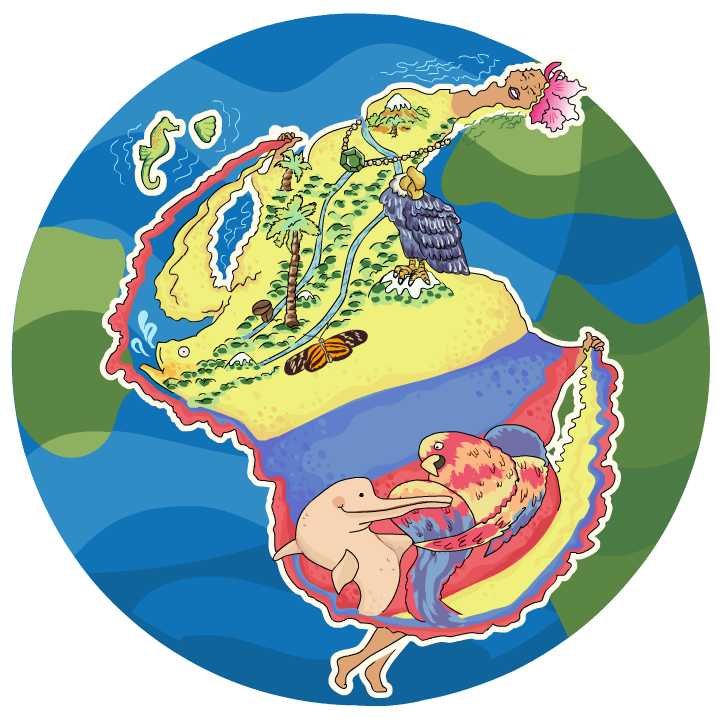
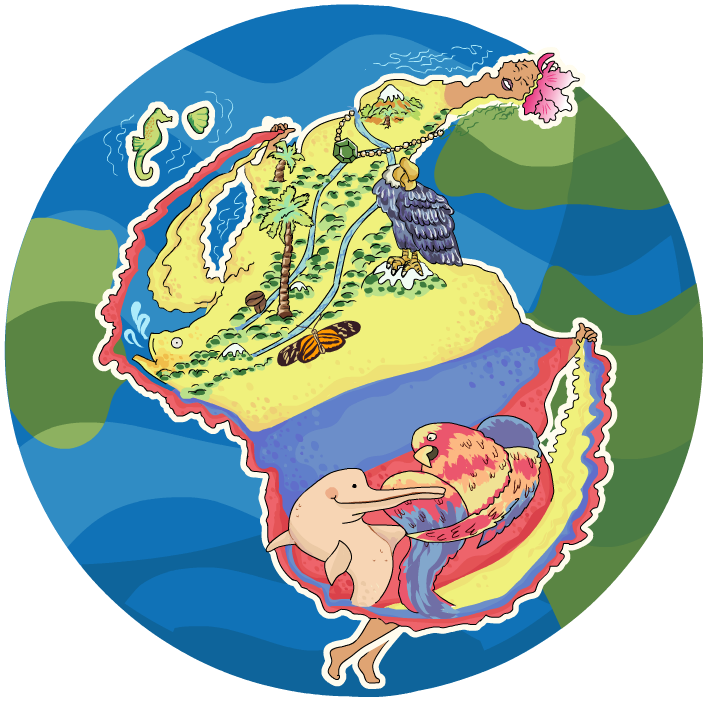
Aplicando grid a otras secciones

diff --git a/paginas/cuento.html b/paginas/cuento.html
@@ -52,40 +52,7 @@ function handleComplete(evt,comp) {
 </script>
 </head>
 <body onload="init();">
-    <!-- <header>
-        <div>
-           
-            <ul class="headerUl">
-              <div class='divflex'>
-                <a href="./index.html"><img class="barramenu" src="../imagenes/botonmenu.png" alt="INICIO"><li class='ulLi1 azul nose'>INICIO</li></a>
-                <a href="./juegos.html"><img class="barramenu" src="../imagenes/botonjuegos.png" alt="JUEGOS"><li class='ulLi1 azul nose'>JUEGOS</li></a>
-              </div>
-              <div class='divflex'>
-                <a href="./nosotros.html"><img class="barramenu" src="../imagenes/nosotros.png" alt="NOSOTROS"><li class="ulLi1 azul nose" > NOSOTROS</li></a>
-              </div> 
-            </ul>
-          
-        </div>
-    </header>
-
-    <div class="new">
-      <div class="card" data-tilt data-tilt-scale="0.95" data-tilt-startY="40">
-        <div class="year">
-          <img width="200px" height="200px"  src="../imagenes/titulo.png" alt="TITULO">
-        </div>  
-      </div>
-    </div> -->
-    <!--
-      <div id="animation_container" style="background-color:rgba(247, 225, 175, 1.00); height:500px">
-        <canvas id="canvas" height="500px" class="juego" style="background-color:rgba(247, 225, 175, 1.00);"></canvas>
-        <div id="dom_overlay_container" class="juego" style="pointer-events:none; overflow:hidden; width:960px; height:640px; left: 0px; top: 0px;">
-        </div>
-      </div>
-        <div id='_preload_div_' style='position:absolute; top:0; left:0; display: inline-block; height:640px; width: 960px; text-align: center;'>
-          <span style='display: inline-block; height: 100%; vertical-align: middle;'></span>
-          <img src=images/_preloader.gif style='vertical-align: middle; max-height: 100%'/>
-        </div> -->
-    <div class="grilla1">
+    <header class="grilla1">
       <div class="g1">
         <div class='divflex'>
           <a href="../index.html"><img class="barramenu" src="../imagenes/botonmenu.png" alt="INICIO"><li class='ulLi1 azul nose'>INICIO</li></a>
@@ -104,19 +71,16 @@ function handleComplete(evt,comp) {
           </div>  
         </div>
       </div>
-    </div>
+    </header>
     <div class="grilla2">
       <div class="g4">
-        CUENTO
+        <h1 class="cuento">CUENTO</h1>
       </div>
       <div class="g5">
-        FOOTER
+        <h1 class="footer">FOOTER</h1>
       </div>
     </div>
 
     <script src='https://cdnjs.cloudflare.com/ajax/libs/vanilla-tilt/1.7.0/vanilla-tilt.min.js'></script><script  src="./script.js"></script>
 </body>
 </html>
-
-<divl class="grilla1"></divl>
-<div class="grilla2"></div>

diff --git a/paginas/juegos.html b/paginas/juegos.html
@@ -9,7 +9,7 @@
     <script src='main.js'></script>
 </head>
 <body class="fondoJuegos">
-    <header>
+    <!-- <header>
           <div class="headerUl">
             
               <div class="acomodando">
@@ -23,12 +23,45 @@
             
           </div>
     </header>
-      <div class="cardJuegos top" data-tilt data-tilt-scale="0.95" data-tilt-startY="40">
+    <div class="cardJuegos top" data-tilt data-tilt-scale="0.95" data-tilt-startY="40">
         <div class="year">
-          <a href="/"><img width="350px" src="../imagenes/juegosgif.gif" alt="TITULO"></a>
+          <a href="./juegos.html"><img width="350px" src="../imagenes/juegosgif.gif" alt="TITULO"></a>
         </div>  
+    </div> -->
+
+    <header class="grilla1">
+      <div class="g1">
+        <div class='divflex'>
+          <div>
+            <a href="./cuento.html"><img width="250px" class="barramenu" src="../imagenes/botonmenu.png" alt="INICIO"><h2 class='ulLi1 nose text'>INICIO</h2></a>
+          </div>
+        </div>
       </div>
-    <footer></footer>
+      <div class="g2">
+          <div class="mundodiv">
+            <div class="cardJuegos" data-tilt data-tilt-scale="0.95" data-tilt-startY="40" >
+                <img class="mundo"  src="../imagenes/mundomapa.png" alt="TITULO">  
+            </div>
+          </div> 
+      </div>
+      <div class="g3">
+        <div class="cardJuegos" data-tilt data-tilt-scale="0.95" data-tilt-startY="40">
+          <div class="year">
+            <a href="./juegos.html"><img width="350px" src="../imagenes/juegosgif.gif" alt="TITULO"></a>
+          </div>  
+        </div>
+      </div>
+    </header>
+    <div class="grilla2">
+      <div class="g4">
+        <h1 class="cuento">ACTIVIDAD</h1>
+      </div>
+      <div class="g5">
+        <h1 class="footer">FOOTER</h1>
+      </div>
+    </div>
+
     <script src='https://cdnjs.cloudflare.com/ajax/libs/vanilla-tilt/1.7.0/vanilla-tilt.min.js'></script><script  src="./script.js"></script>
 </body>
 </html>
+

diff --git a/css/Style.css b/css/Style.css
@@ -26,9 +26,9 @@ background-image: url(../imagenes/fondo14.png);
 .fondoJuegos{
   background-image: url(../imagenes/fondo12.jpg);
 }
-.acomodando{
+/* .acomodando{
   margin-top: -310px;
-}
+} */
 
 .card{
   padding: 1em;
@@ -39,10 +39,11 @@ background-image: url(../imagenes/fondo14.png);
 }
 .cardJuegos {
   margin: auto;
-  padding: 1em;
-  border-radius: 10em;
   transform: perspective(500px);
   transform-style: preserve-3d;
+  height: 100%;
+  display: flex;
+  align-items: center;
 }
 
 video{
@@ -171,15 +172,15 @@ a:hover .nose{
   visibility: visible;
 }
 
-.top{
+/* .top{
   top: -180px;
   position: relative;
-}
+} */
 .mundo{
-  height: 450px;
+  height: 250px;
 }
 .mundodiv{
-  margin-right: 50px;
+  margin: 20px;
 }
 
 /* NOSOTROS */
@@ -408,9 +409,14 @@ a:hover .nose{
   }
   .g4{
     grid-area: cuarto;
+    display: flex;
+    justify-content: center;
+    margin: 30px;
   }
   .g5{
     grid-area: quinto;
+    display: flex;
+    justify-content: center;
   }
 
 .grilla1{
@@ -422,7 +428,6 @@ a:hover .nose{
   grid-template-rows: 1fr 1fr 1fr;
   grid-template-columns: 1fr 1fr;
   grid-column-gap: 10px;
-  grid-row-gap: 15px;
   height: 100vh;
   margin: 0;
 }
@@ -430,13 +435,28 @@ a:hover .nose{
 .grilla2{
   display: grid;
   grid-template-areas:
-  '4'
-  '5';
+  'cuarto'
+  'quinto';
   grid-template-rows: 2fr 1fr;
   grid-template-columns: 1fr;
-  grid-column-gap: 10px;
-  grid-row-gap: 15px;
   height: 100vh;
   margin: 0;
 }
 
+.cuento{
+  background-color: red;
+      margin: 20px;
+      height: 100%;
+      width: 100%;
+      display: flex;
+      align-items: center;
+      justify-content: center;
+}
+.footer{
+  background-color: gray;
+  height: 100%;
+  width: 100%;
+  display: flex;
+  align-items: center;
+  justify-content: center;
+}

diff --git a/index.html b/index.html
@@ -12,14 +12,16 @@
     <main>
       <div>
         <video src="./imagenes/videofondo.mp4" autoplay="true" muted="true" loop="true" ></video>
-        <a href="./paginas/cuento.html">
-          <div class="container">
-            <div class="content">
-              <img class="imginicio" src="./imagenes/titulo.png" alt="KANTICUENTOS INTI">
+        <div>
+          <a href="./paginas/cuento.html">
+            <div class="container">
+              <div class="content">
+                <img class="imginicio" src="./imagenes/titulo.png" alt="KANTICUENTOS INTI">
+              </div>
+              <div class="flap"></div>
             </div>
-            <div class="flap"></div>
-          </div>
-        </a>
+          </a>
+        </div>
       </div>
     </main>
     <footer></footer>
